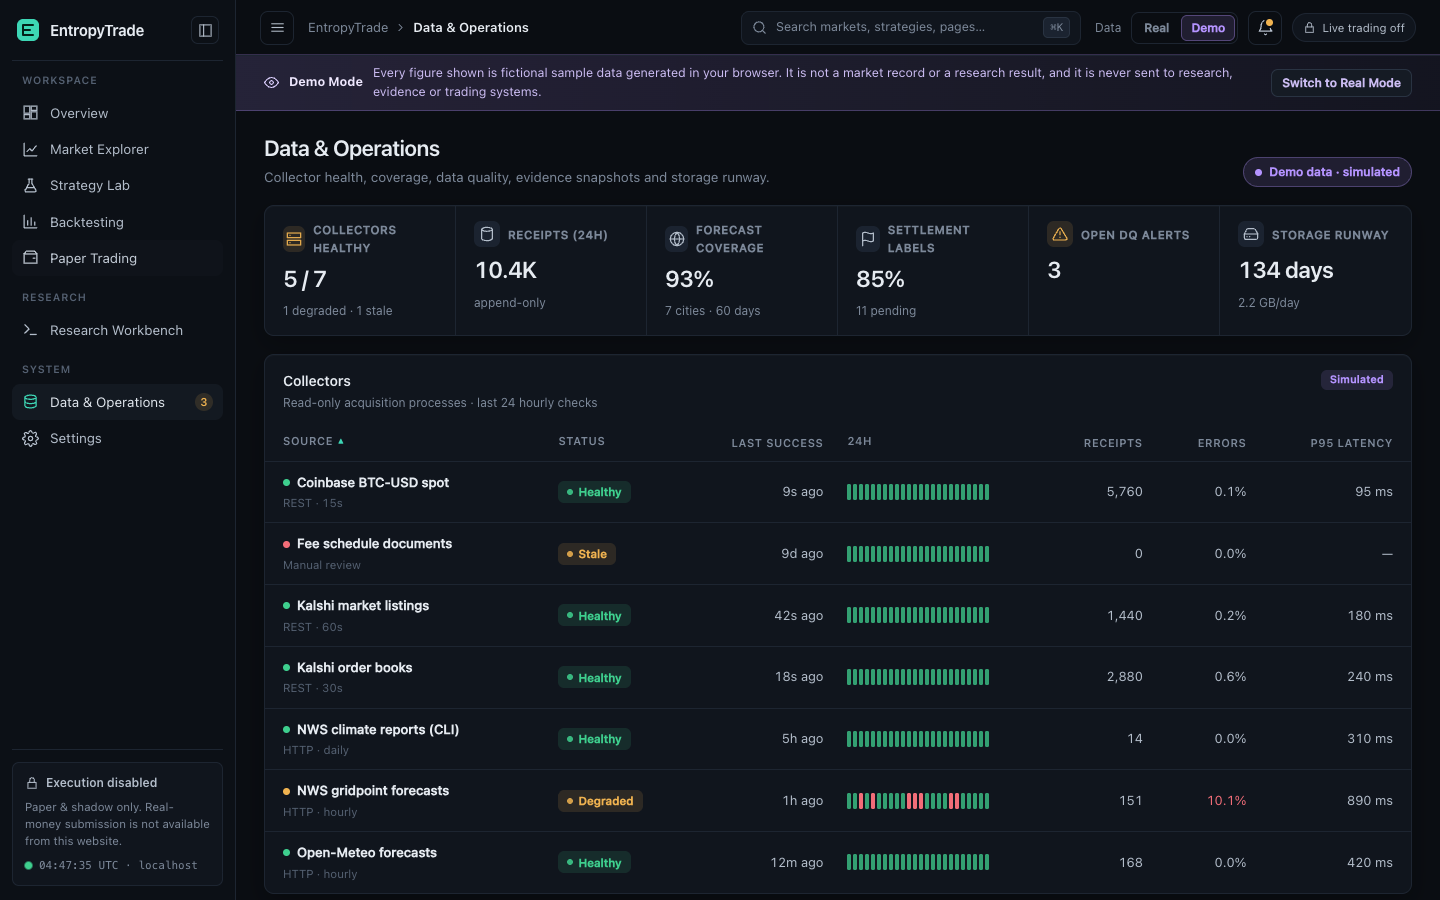
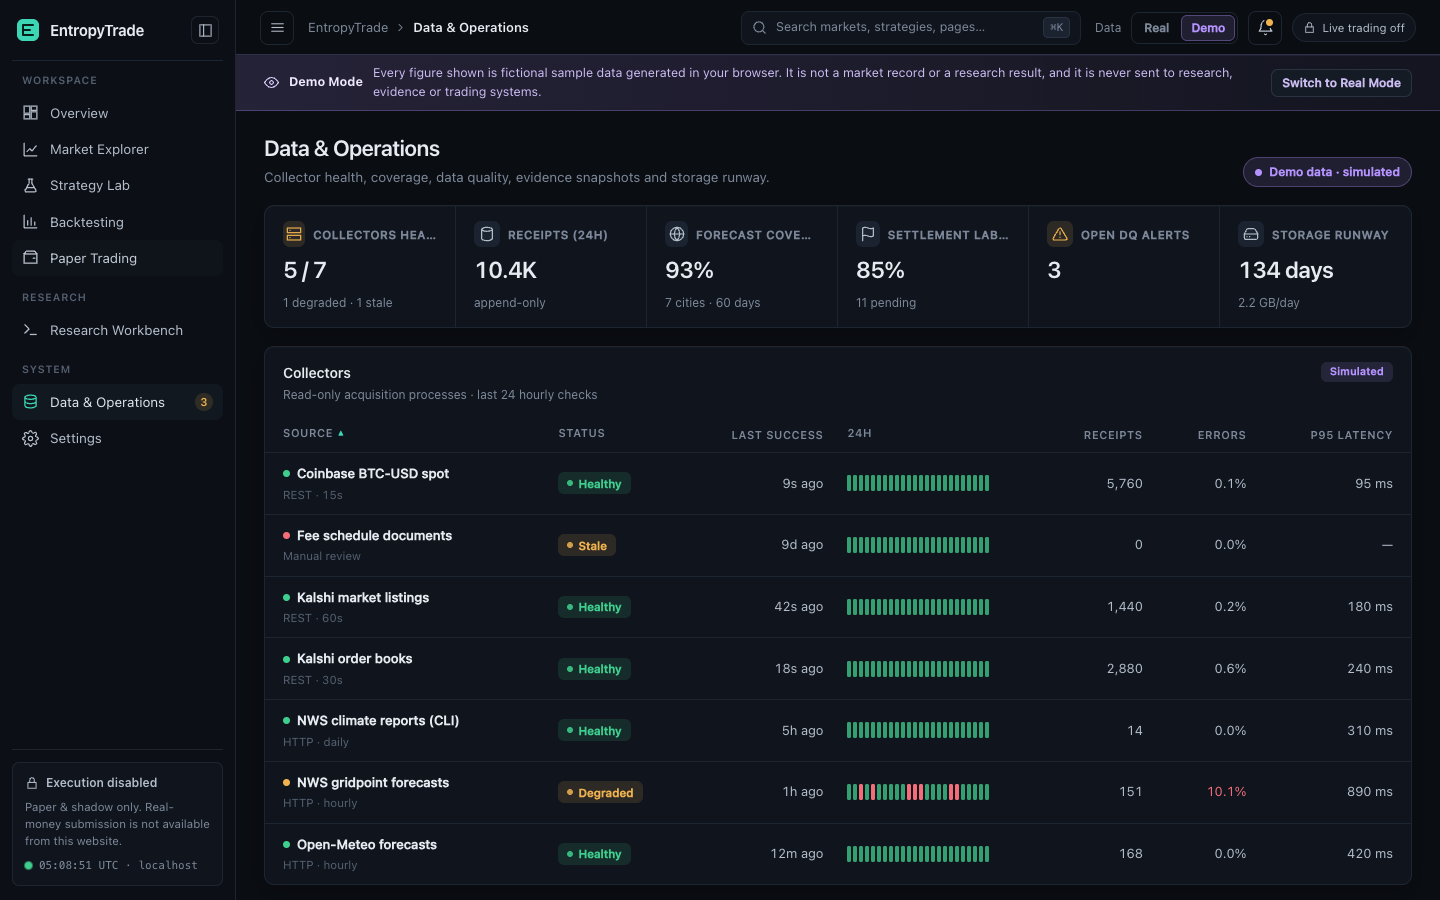
Polish redesign, force full reload in workbench specs, refresh screenshots
- Fit the market table at 1440px; compact order/fill history; truncate KPI labels
- Fee-sensitivity base case now equals the reported backtest return
- Workbench specs navigate via about:blank so a restarted server's CSRF token
  is always loaded (a same-URL hash navigation does not reload the page)
- Add a screenshot index noting demo images are fictional sample data

diff --git a/frontend/src/views-markets.js b/frontend/src/views-markets.js
@@ -22,7 +22,7 @@
     const active = d.strategies.filter((s) => ["paper", "shadow"].includes(s.status)).length;
     const winRate = p.by_strategy.reduce((a, s) => a + s.win_rate * s.trades, 0) / p.by_strategy.reduce((a, s) => a + s.trades, 0);
     root.append(h("div", { class: "kpi-strip" },
-      kpi({ label: "Paper equity", value: fmt.usd(p.equity), deltaValue: p.equity / p.starting_balance - 1, sub: `from ${fmt.usd(p.starting_balance, 0)}`, iconName: "paper", spark: p.curve.filter((_, i) => i % 12 === 0).map((x) => x.y) }),
+      kpi({ label: "Paper equity", value: fmt.usd(p.equity), deltaValue: p.equity / p.starting_balance - 1, sub: `from ${fmt.usd(p.starting_balance, 0)}`, iconName: "paper" }),
       kpi({ label: "Today's P&L", value: fmt.signedUsd(p.today_pnl), kind: p.today_pnl >= 0 ? "pos" : "neg", sub: "simulated fills", iconName: "activity" }),
       kpi({ label: "Realized P&L", value: fmt.signedUsd(p.realized_pnl), kind: "pos", sub: `${fmt.usd(p.fees_paid)} fees`, iconName: "target" }),
       kpi({ label: "Win rate", value: fmt.pct(winRate), sub: `${p.by_strategy.reduce((a, s) => a + s.trades, 0)} settled trades`, iconName: "check" }),
@@ -44,7 +44,7 @@
         const ratio = l.used / l.limit;
         return h("div", { class: "limit-row" }, h("div", { class: "limit-head" }, h("span", l.name), h("span", { class: "mono" }, `${l.unit === "usd" ? fmt.usd(l.used, 0) : l.unit === "pct" ? `${l.used}%` : l.used} / ${l.unit === "usd" ? fmt.usd(l.limit, 0) : l.unit === "pct" ? `${l.limit}%` : l.limit}`)), meter(l.used, l.limit, ratio > 0.8 ? "neg" : ratio > 0.6 ? "warn" : ""));
       })));
-    root.append(grid("g-2-1", card({ title: "Paper equity", subtitle: "Demo account · 30 days", actions: rangeSel, source: "demo" }, chartHost), riskCard));
+    root.append(grid("g-2-1", card({ title: "Paper equity", subtitle: "Demo account · hourly marks", actions: rangeSel, source: "demo" }, chartHost), riskCard));
 
     const opps = d.markets.filter((m) => m.status === "open" && m.edge !== null).sort((a, b) => Math.abs(b.edge) - Math.abs(a.edge)).slice(0, 6);
     const oppTable = dataTable({
@@ -191,14 +191,12 @@
       h("label", { class: "check toggle" }, modelBox, h("span", "Only markets with a model estimate")));
 
     const columns = [
-      { key: "title", label: "Market", render: (m) => h("div", { class: "cell-market" }, h("span", { class: "cell-title" }, m.title), h("span", { class: "cell-sub mono" }, m.ticker)) },
-      { key: "category", label: "Category", render: (m) => pill(m.category, `cat cat-${m.category.toLowerCase()}`) },
-      { key: "spark", label: "48h", sortable: false, render: (m) => sparkline(m.spark, { width: 96, height: 26 }) },
+      { key: "title", label: "Market", render: (m) => h("div", { class: "cell-market" }, h("span", { class: "cell-title" }, m.title), h("span", { class: "cell-sub" }, h("span", { class: `cat-chip cat-${m.category.toLowerCase()}` }, m.category), h("span", { class: "mono" }, m.ticker))) },
+      { key: "spark", label: "48h", sortable: false, render: (m) => sparkline(m.spark, { width: 76, height: 26 }) },
       { key: "mid", label: "Implied", align: "num", sort: (m) => m.status === "open" ? (m.yes_bid + m.yes_ask) / 2 : m.last, render: (m) => m.status === "open" ? h("div", { class: "prob" }, h("strong", fmt.pct((m.yes_bid + m.yes_ask) / 2, 0)), meter((m.yes_bid + m.yes_ask) / 2, 1, "accent")) : statusPill(m.result === "yes" ? "Settled YES" : "Settled NO") },
       { key: "bidask", label: "Bid / Ask", align: "num", sort: (m) => m.spread ?? 99, render: (m) => m.status === "open" ? h("div", { class: "stack-cell" }, h("span", { class: "mono" }, `${fmt.cents(m.yes_bid)} / ${fmt.cents(m.yes_ask)}`), h("span", { class: "cell-sub" }, `${fmt.cents(m.spread)} spread`)) : "—" },
       { key: "change_24h", label: "24h", align: "num", render: (m) => h("span", { class: `num-${ET.tone(m.change_24h)}` }, `${m.change_24h > 0 ? "+" : ""}${Math.round(m.change_24h * 100)}¢`) },
-      { key: "volume_24h", label: "Volume", align: "num", render: (m) => fmt.compact(m.volume_24h) },
-      { key: "liquidity", label: "Depth", align: "num", render: (m) => fmt.compactUsd(m.liquidity) },
+      { key: "volume_24h", label: "Vol / Depth", align: "num", render: (m) => h("div", { class: "stack-cell" }, h("span", fmt.compact(m.volume_24h)), h("span", { class: "cell-sub" }, m.status === "open" ? fmt.compactUsd(m.liquidity) : "—")) },
       { key: "edge", label: "Model edge", align: "num", sort: (m) => m.edge ?? -9, render: (m) => (m.edge === null ? h("span", { class: "muted" }, "—") : h("span", { class: `num-${ET.tone(m.edge)}` }, fmt.pct(m.edge, 1, true))) },
       { key: "close", label: "Closes", align: "num", render: (m) => h("span", { class: "muted" }, m.status === "open" ? `in ${fmt.duration((m.close - d.now) / 1000)}` : fmt.date(m.close)) },
     ];

diff --git a/frontend/src/style.css b/frontend/src/style.css
@@ -307,9 +307,11 @@ th.num .th-btn { flex-direction: row-reverse; }
 .data-table tbody tr:hover td { background: var(--hover); }
 .data-table.dense td { padding-top: 8px; padding-bottom: 8px; }
 body.density-compact { --row-pad: 6px; }
-.cell-market { display: flex; flex-direction: column; gap: 2px; min-width: 200px; max-width: 420px; }
+.cell-market { display: flex; flex-direction: column; gap: 2px; min-width: 200px; max-width: 360px; }
 .cell-title { color: var(--text); font-weight: 520; overflow: hidden; text-overflow: ellipsis; white-space: nowrap; display: flex; align-items: center; gap: 7px; }
 .cell-sub { color: var(--faint); font-size: 11.5px; overflow: hidden; text-overflow: ellipsis; white-space: nowrap; }
+.cat-chip { font-family: var(--font); font-size: 11px; font-weight: 600; margin-right: 8px; }
+.cat-chip::before { content: ""; display: inline-block; width: 6px; height: 6px; border-radius: 2px; background: currentColor; margin-right: 5px; vertical-align: 1px; }
 .stack-cell { display: inline-flex; flex-direction: column; align-items: flex-end; gap: 1px; }
 .prob { display: inline-flex; flex-direction: column; align-items: flex-end; gap: 4px; min-width: 64px; }
 .prob .meter { width: 64px; height: 4px; }
@@ -468,7 +470,10 @@ a.mini-main:hover .mini-title { color: var(--accent); }
 .cat-dot { grid-row: span 2; width: 10px; height: 26px; border-radius: 3px; background: currentColor; }
 .cat-name { font-weight: 600; color: var(--text); font-size: 13.5px; }
 .cat-meta { color: var(--muted); font-size: 11.5px; }
-.explorer { display: grid; grid-template-columns: 264px minmax(0, 1fr); gap: 18px; align-items: start; }
+.explorer { display: grid; grid-template-columns: 240px minmax(0, 1fr); gap: 18px; align-items: start; }
+.explorer .cell-market { min-width: 190px; max-width: 250px; }
+.explorer .cell-title { white-space: normal; line-height: 1.35; }
+.explorer .data-table td, .explorer .data-table th { padding-left: 10px; padding-right: 10px; }
 .filters { position: sticky; top: 72px; padding: 16px; gap: 16px; display: flex; flex-direction: column; }
 .filter-head { display: flex; justify-content: space-between; align-items: center; }
 .field { display: flex; flex-direction: column; gap: 8px; }

diff --git a/docs/screenshots/redesign/README.md b/docs/screenshots/redesign/README.md
@@ -1,0 +1,29 @@
+# Redesigned website — rendered screenshots
+
+Captured by `frontend/browser/redesign.spec.cjs` in managed headless Chromium against a real
+`entropytrade-web` localhost listener with a new, empty workspace (1440×900 unless noted).
+
+**`demo-*` images show Demo Mode: fictional sample data generated in the browser.** They
+are product previews, not market records, research results or trading performance. Every
+demo page carries the Demo Mode banner, a "Demo data · simulated" chip and SIMULATED chart
+watermarks. **`real-*` images show Real Mode** on an empty workspace, i.e. the honest
+empty and unavailable states.
+
+| File | Shows |
+| --- | --- |
+| `demo-overview.png` | Overview: KPIs, paper equity, risk utilization, opportunities, activity |
+| `demo-markets.png` | Market Explorer: category strip, filters, sortable table with sparklines |
+| `demo-market-detail.png` | Market detail: price chart (hover), order book, model vs market, rules |
+| `demo-strategy-lab.png` | Strategy Lab: metric trend, strategies with lifecycle stage and approval |
+| `demo-strategy-detail.png` | Strategy detail: lifecycle, metrics, equity, specification, evidence |
+| `demo-analytics.png` | Backtesting: equity vs baseline, trade statistics, monthly returns |
+| `demo-analytics-costs.png` | Fee & slippage sensitivity grid and break-even |
+| `demo-paper.png` | Paper Trading: account KPIs, equity, limits, positions, orders, disabled execution |
+| `demo-operations.png` | Data & Operations: collectors, history, quality alerts, coverage, runway |
+| `demo-settings.png` | Settings: risk limits and V1 gates (read-only) |
+| `demo-mobile-markets.png` | 375×812 phone layout |
+| `demo-tablet-overview.png` | 768×1024 tablet layout |
+| `real-overview.png` | Real Mode overview on an empty workspace |
+| `real-paper.png` | No paper accounts; live trading switch disabled |
+| `real-operations.png` | Collector status deliberately not exposed; honest empty states |
+| `real-workbench.png` | Research Workbench with an idea handed off from Strategy Lab |
